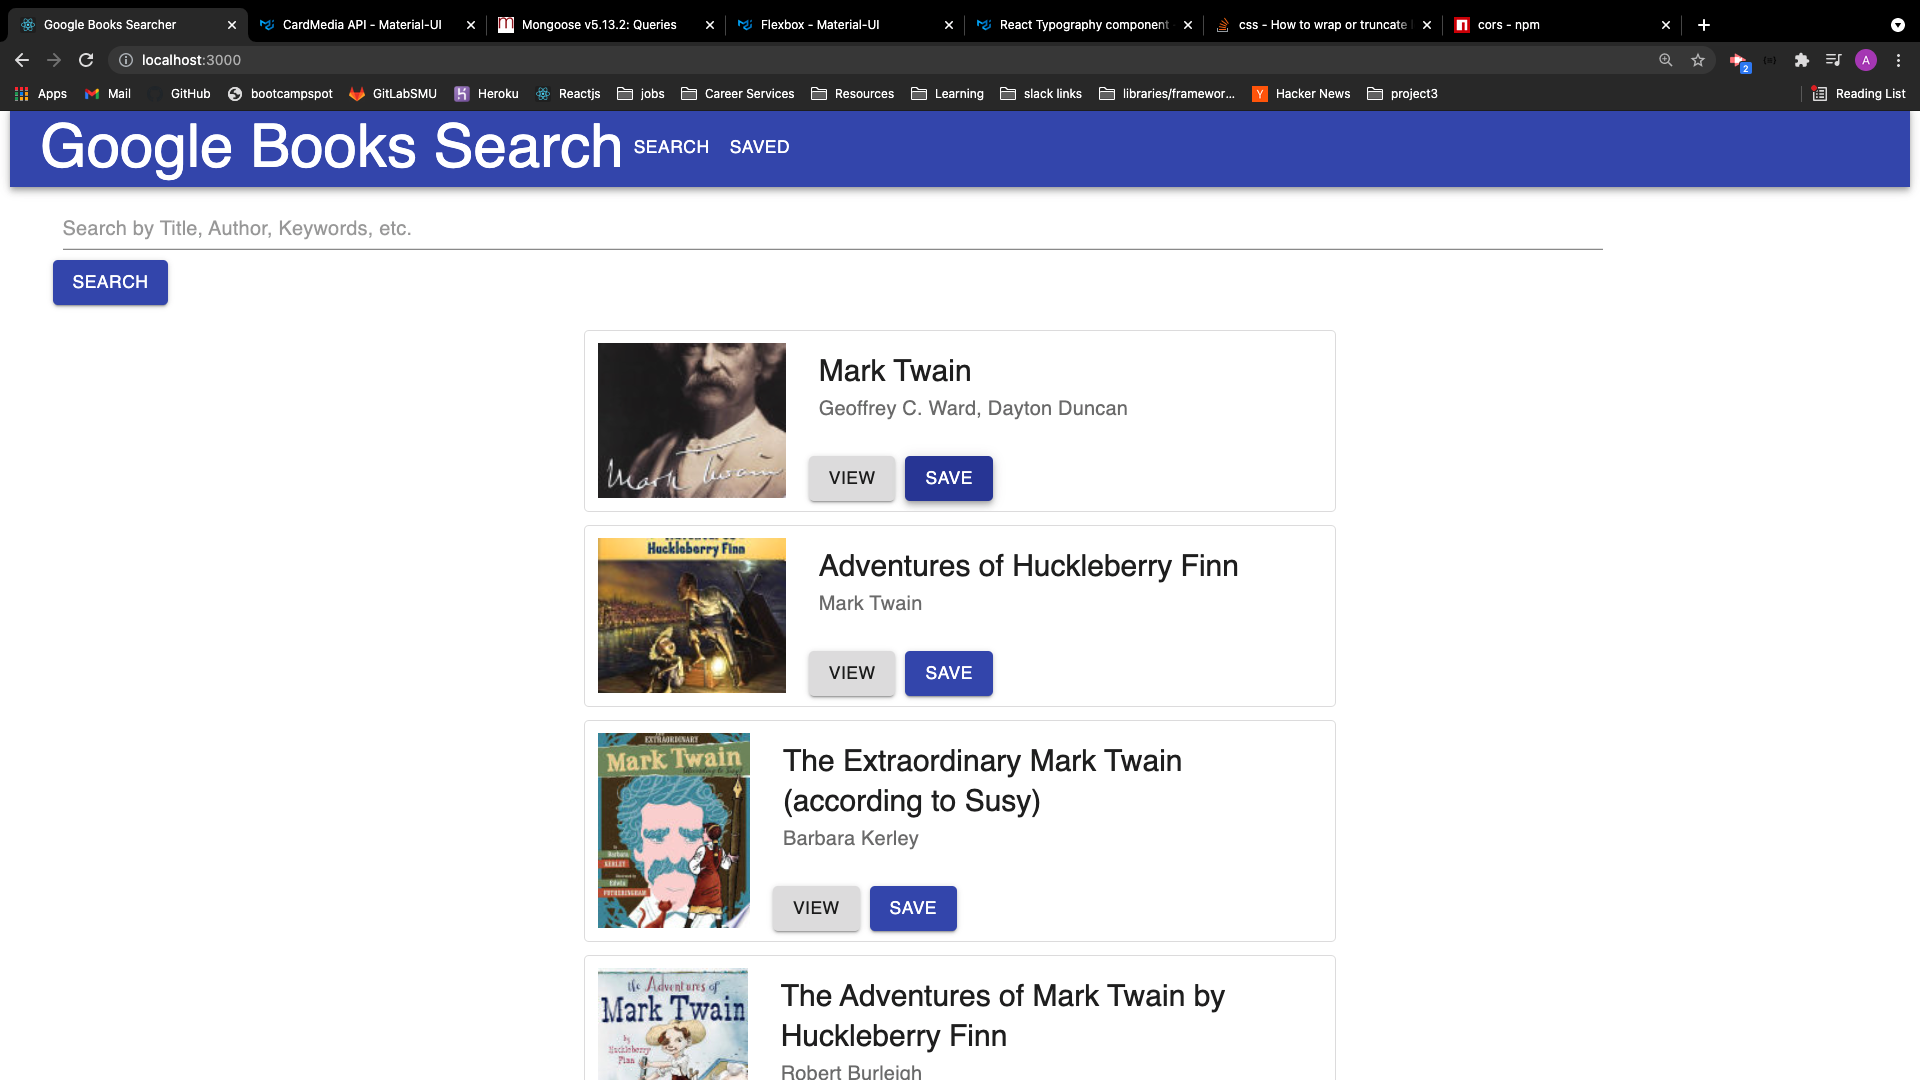
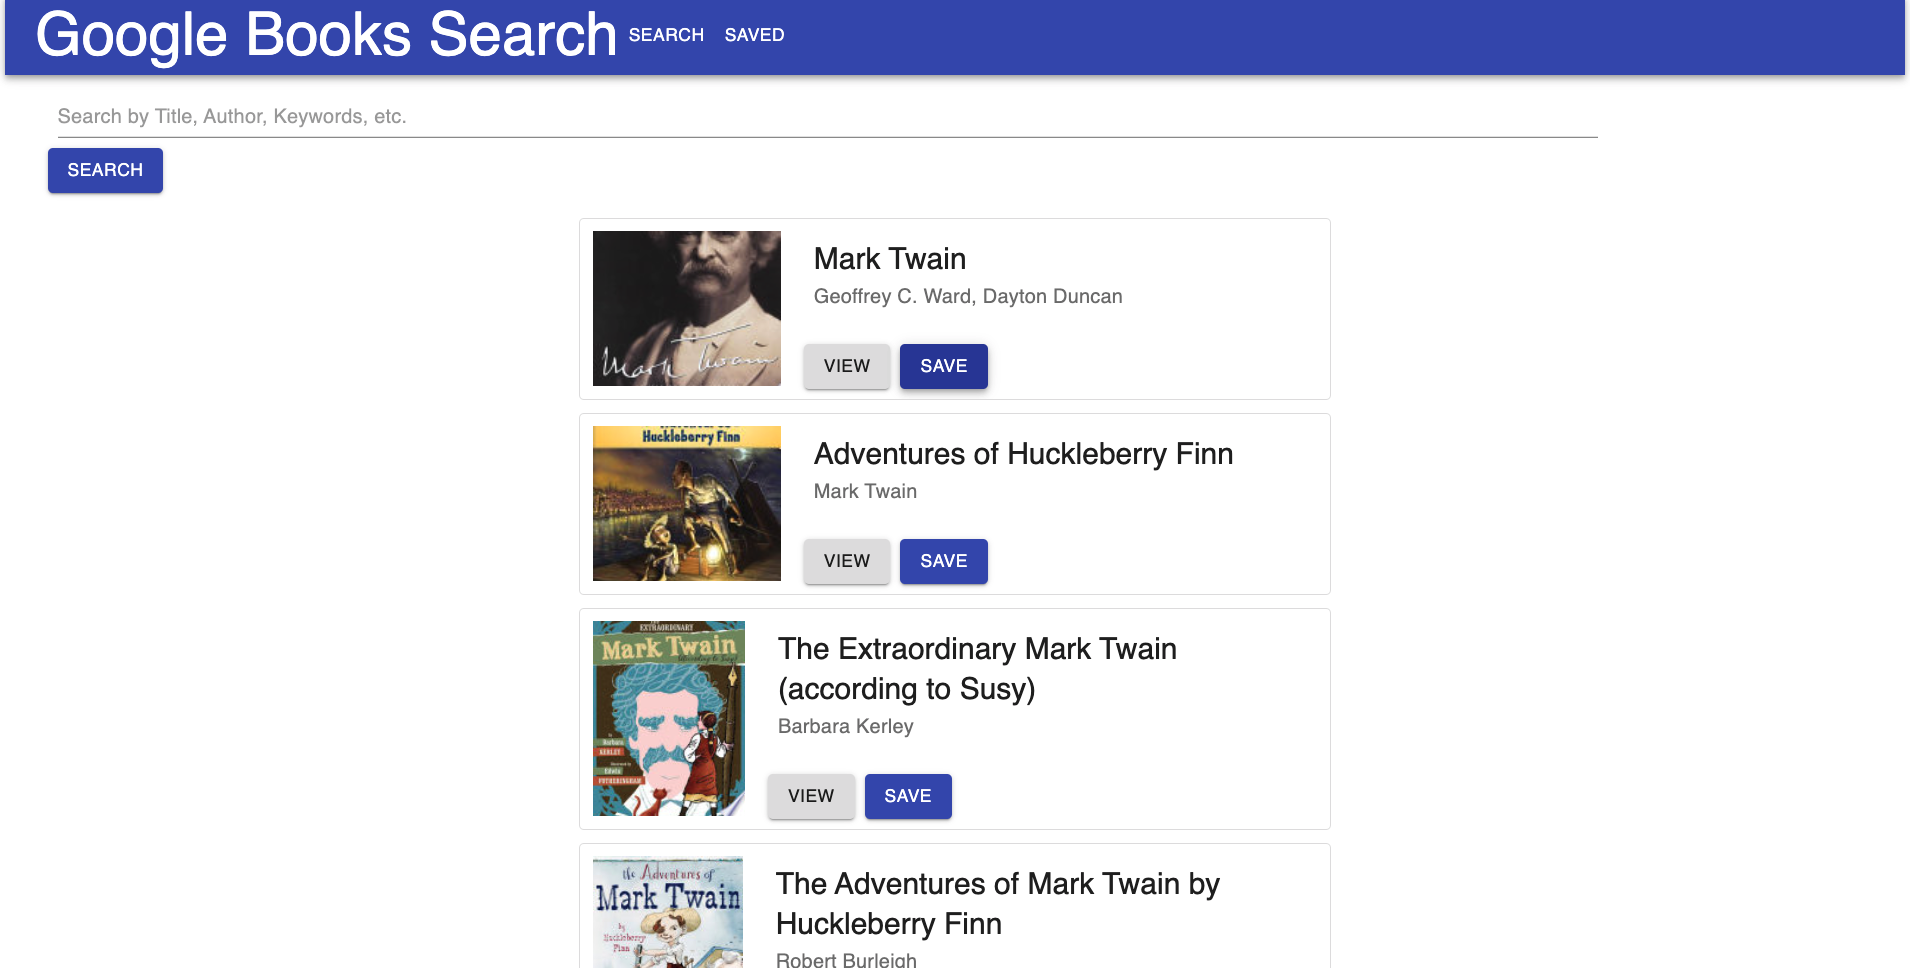
cropped screenshots, added deployed link

Changed region(s): [[0.0, 0.0, 1.0, 0.3099], [0.3089, 0.2169, 0.6487, 1.0]]

diff --git a/README.md b/README.md
@@ -9,7 +9,7 @@
 
 
 
-## [Start searching for your next read!]()
+## [Start searching for your next read!](https://afternoon-retreat-30126.herokuapp.com/)
 
 
 
